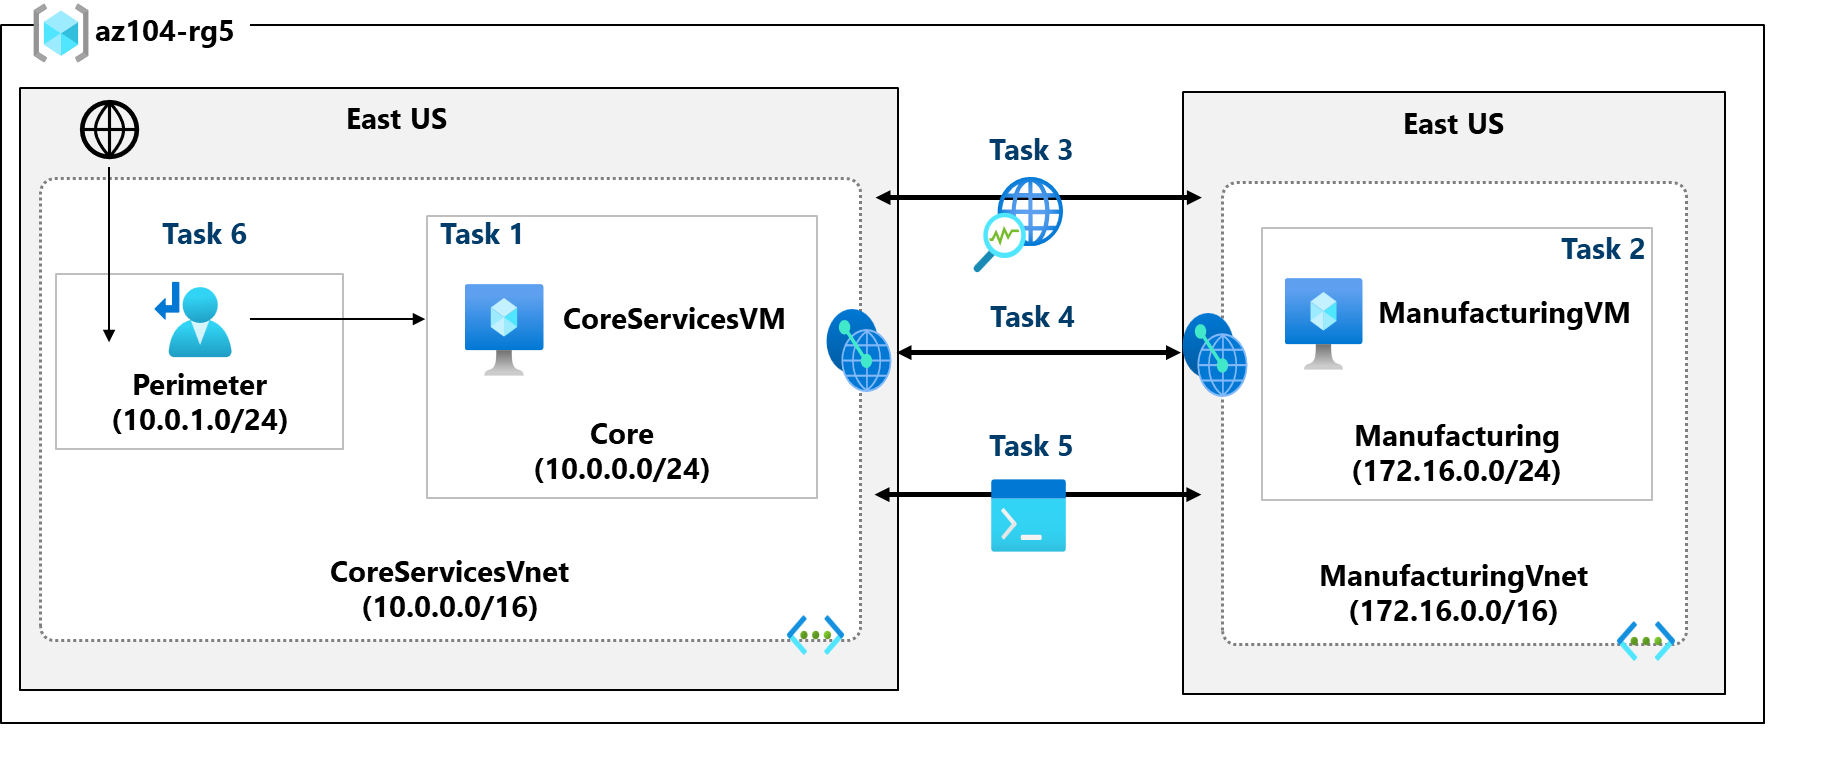
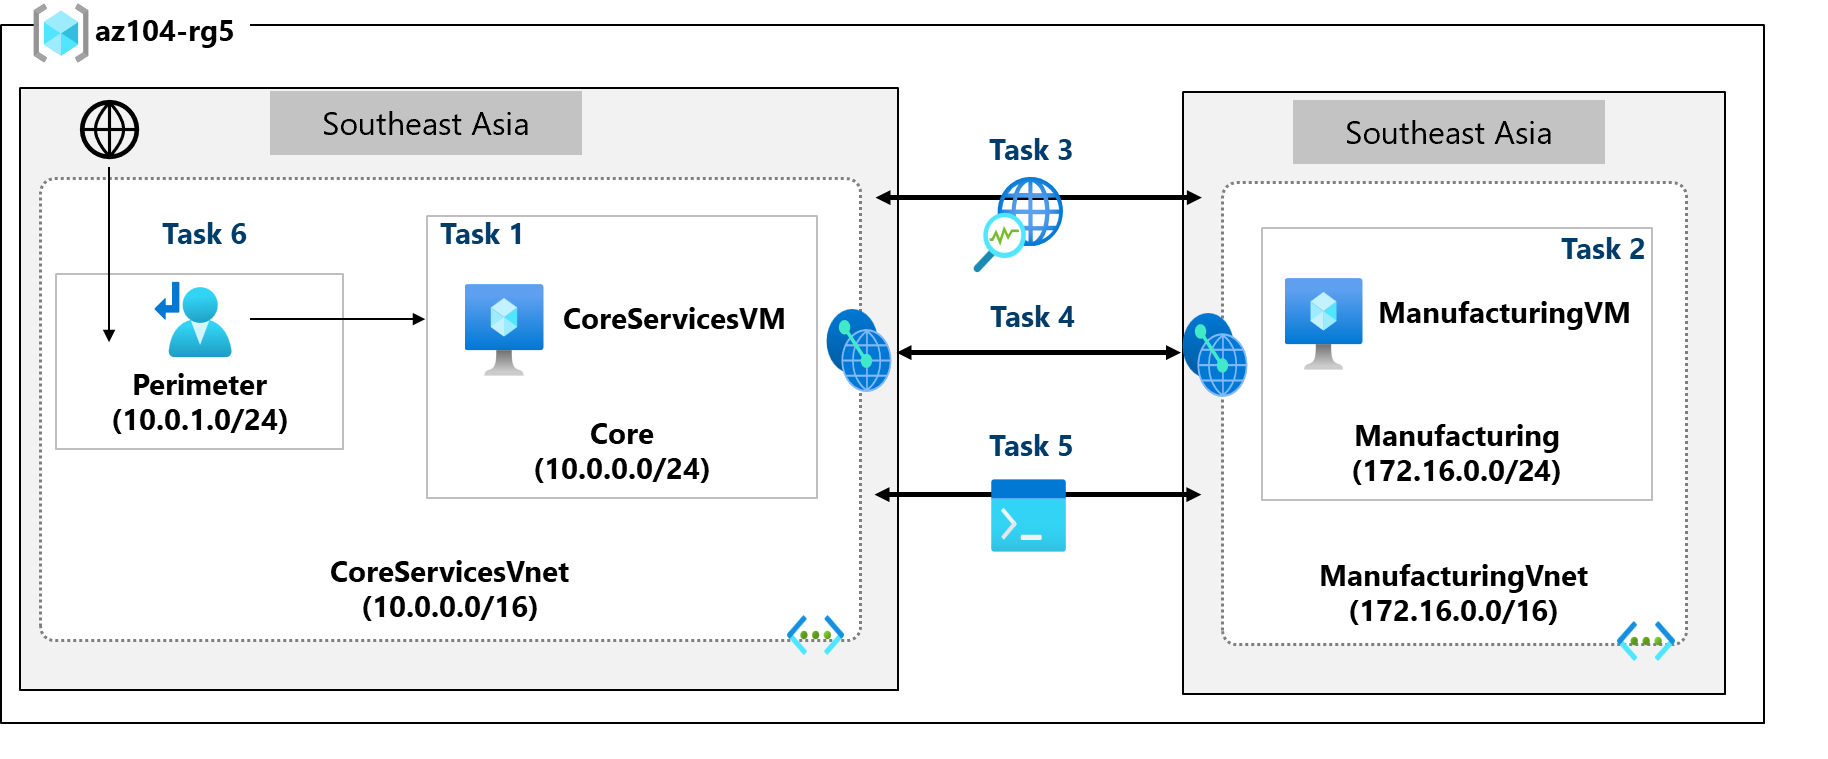
update region

Changed region(s): [[0.686, 0.1212, 0.9043, 0.2424], [0.1247, 0.1212, 0.343, 0.2121]]

diff --git a/Instructions/Labs/LAB_05-Implement_Intersite_Connectivity.md b/Instructions/Labs/LAB_05-Implement_Intersite_Connectivity.md
@@ -10,7 +10,7 @@ lab:
 
 In this lab you explore communication between virtual networks. You implement virtual network peering and test connections. You will also create a custom route. 
 
-This lab requires an Azure subscription. Your subscription type may affect the availability of features in this lab. You may change the region, but the steps are written using **East US**. 
+This lab requires an Azure subscription. Your subscription type may affect the availability of features in this lab. You may change the region, but the steps are written using **SouthEast Asia**. 
 
 ## Estimated time: 45 minutes
     
@@ -58,7 +58,7 @@ In this task, you create a core services virtual network with a virtual machine.
     | Subscription |  *your subscription* |
     | Resource group |  `az104-rg5` (If necessary, **Create new**. )
     | Virtual machine name |    `CoreServicesVM` |
-    | Region | **(US) East US** |
+    | Region | **Southeast Asia** |
     | Availability options | No infrastructure redundancy required |
     | Security type | **Trusted launch virtual machines** |
     | Image | **Windows Server 2019 Datacenter - x64 Gen2** (You may need to select `see all images` and select it from the **Windows Server** Select list) |
@@ -108,7 +108,7 @@ In this task, you create a manufacturing services virtual network with a virtual
     | Subscription |  *your subscription* |
     | Resource group |  `az104-rg5` |
     | Virtual machine name |    `ManufacturingVM` |
-    | Region | **(US) East US** |
+    | Region | **Southeast Asia** |
     | Availability options | No infrastructure redundancy required |
     | Security type | **Trusted launch virtual machines** |
     | Image | **Windows Server 2019 Datacenter: x64 Gen2** |
